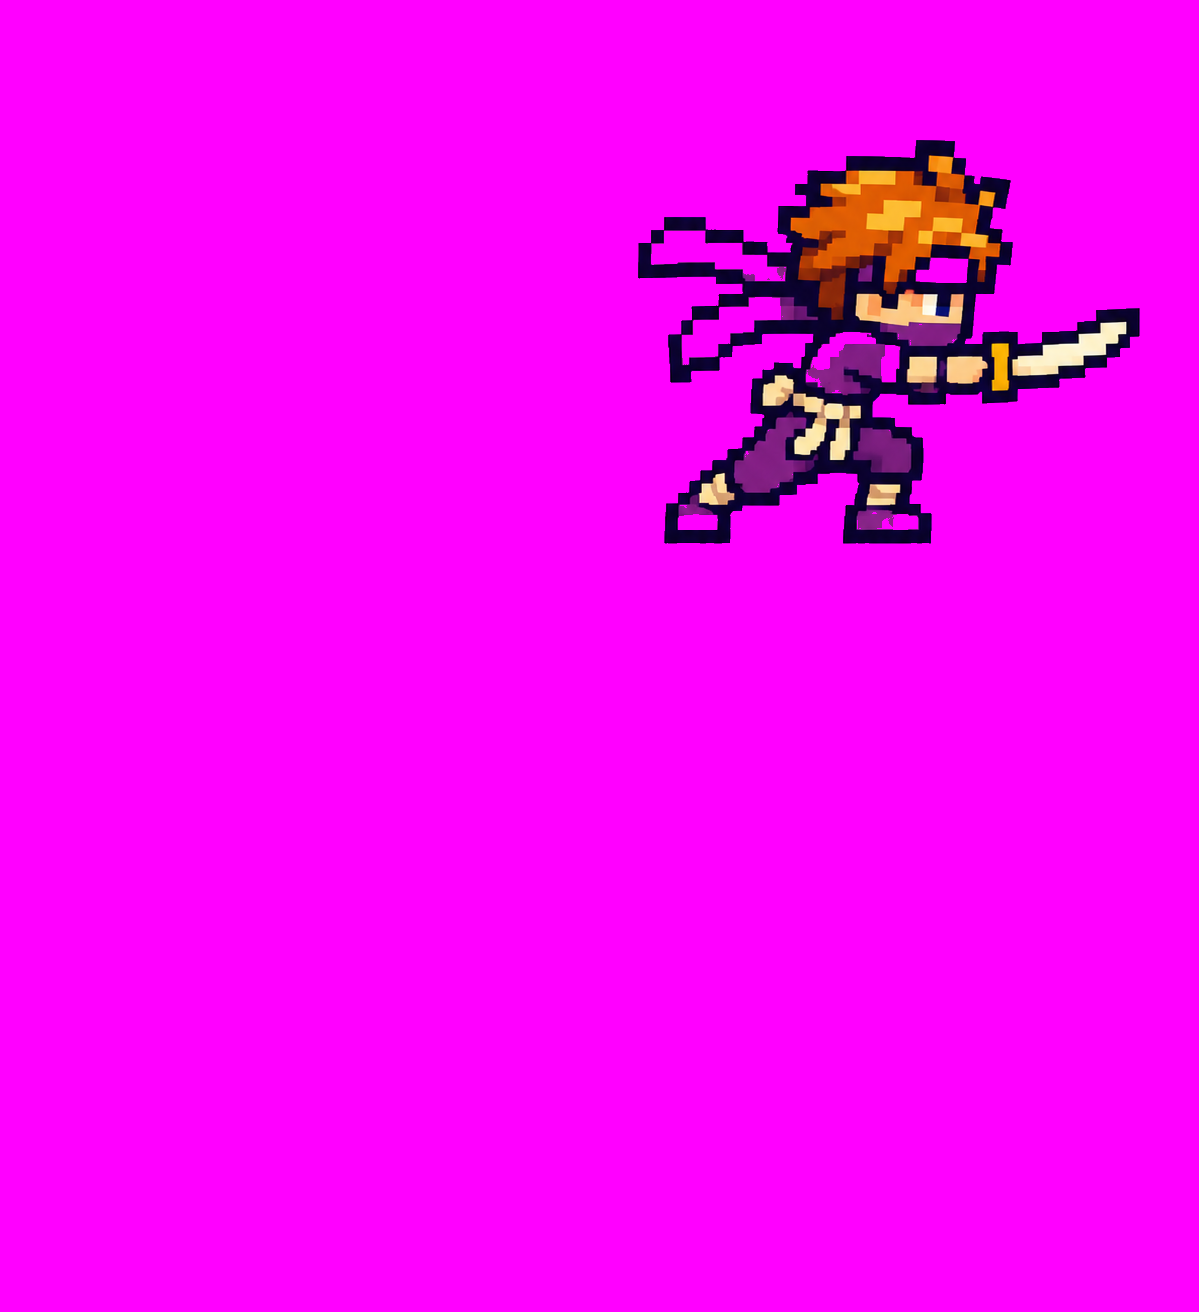
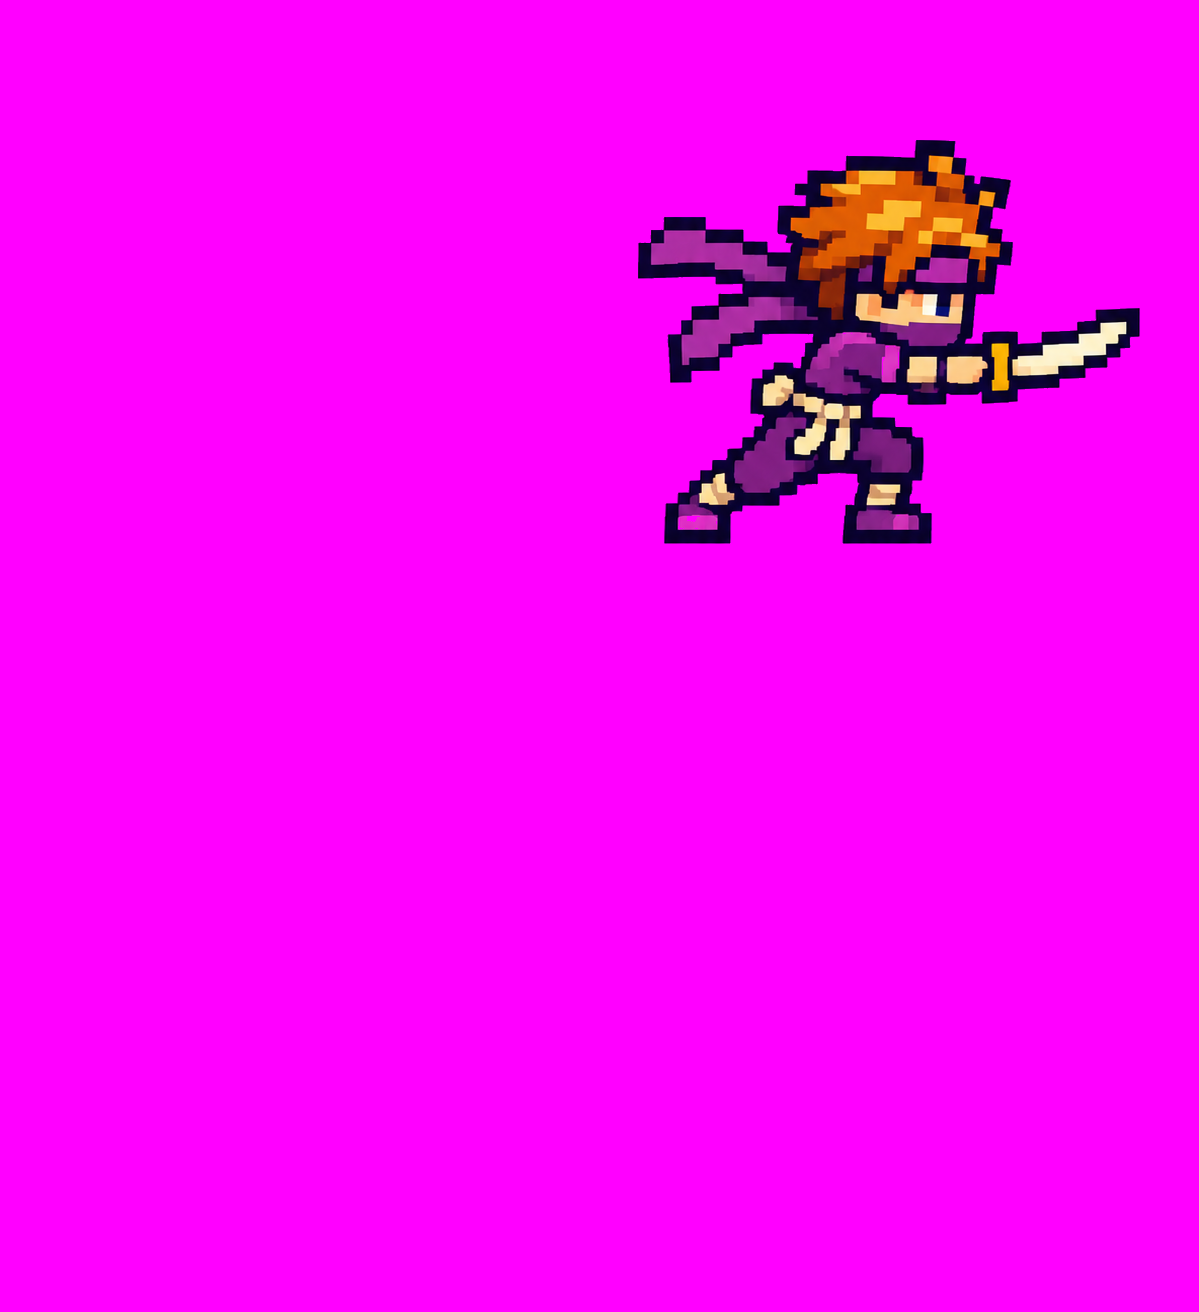
主人公: ranger被弾の弓・ninja縁の厳格抜き・帯の歩行ポーズ接続・マスター衣装(warrior/ranger)6枚

diff --git a/rpg/js/rpg-ui.js b/rpg/js/rpg-ui.js
@@ -137,7 +137,10 @@
       }
       else if (e.t === 'heal') steps.push({ d: 280, f: p => ({ heal: true }) });
       else if (e.t === 'enemy' && e.dmg > 0) steps.push({ d: 360, f: p => ({ enemyDx: p < .3 ? -p / .3 * 8 : p < .6 ? -8 : -(1 - (p - .6) / .4) * 8, heroFlash: p > .3 && p < .6, guard: e.reduced > 0 && p > .2 && p < .7 }) });
-      else if (e.t === 'explore') RPG.scene.walk++;
+      else if (e.t === 'explore') {   // 回答の合間に冒険帯で歩く：前の位置から6px進みながら歩行ポーズ（8歩目以降はその場歩き）
+        const adv = RPG.scene.walk < 8 ? 6 : 0; RPG.scene.walk++;
+        steps.push({ d: 420, f: p => ({ heroDx: -adv * (1 - p), heroPose: 'walk' }) });
+      }
     });
     if (reduceMotion() || !steps.length) { drawStrip(); return; }
     const t0 = performance.now(); let i = 0, start = t0, last = t0; cancelAnimationFrame(raf);

diff --git a/rpg/assets/tools/master_take.py b/rpg/assets/tools/master_take.py
@@ -1,0 +1,31 @@
+# python tools/master_take.py <master|alt> <職> [<職>...] : ChatGPTで作った 横1列3マスのシート(左=報酬待機 中=報酬勝利 右=帯用待機)を切り、
+# 通常衣装の待機と同じ高さに縮尺をそろえて chars/hero_<職>_<kind>.png / _<kind>_win.png / hero_<職>_strip_<kind>.png に出す。
+# シートは Downloads/rpg<kind>_<職>.png を既定とし、src/hero_<職>_<kind>_sheet/ へ移す。STRICT=1 で紫の服の職用(マゼンタ判定を厳しく)。
+import sys, os, shutil, subprocess
+import numpy as np
+from PIL import Image
+from scipy import ndimage as ndi
+A = os.path.abspath(os.path.join(os.path.dirname(__file__), '..')); D = os.path.expanduser('~/Downloads')
+kind = sys.argv[1]
+def mag(a):
+    r,g,b=[a[...,i].astype(int) for i in range(3)]
+    if os.environ.get('STRICT')=='1': return (r>200)&(b>200)&(g<80)&((r+b)//2-g>150)
+    return (r>140)&(b>140)&(g<120)&((r+b)//2-g>80)
+for j in sys.argv[2:]:
+    sid=f'hero_{j}_{kind}_sheet'; s=f'{A}/src/{sid}/{sid}.png'; f=f'{D}/rpg{kind}_{j}.png'
+    if os.path.exists(f): os.makedirs(os.path.dirname(s),exist_ok=True); shutil.move(f,s)
+    a=np.array(Image.open(s).convert('RGB')); H,W=a.shape[:2]; fg=~mag(a)
+    lab,n=ndi.label(ndi.binary_dilation(fg,iterations=10)); lab=lab*fg; cells={}
+    for k in range(1,n+1):
+        m=lab==k
+        if m.sum()<400: continue
+        ys,xs=np.nonzero(m); cells.setdefault(min(2,int(xs.mean()/(W/3))),[]).append(m)
+    print(j,kind,'cells',{k:len(v) for k,v in cells.items()})
+    def hgt(ms): m=np.any(ms,axis=0); ys=np.nonzero(m.any(1))[0]; return ys.max()-ys.min()+1
+    idle_h=Image.open(f'{A}/chars/hero_{j}.png').size[1]; strip_h=Image.open(f'{A}/chars/hero_{j}_strip.png').size[1]
+    sc=idle_h/hgt(cells[0]); sc2=strip_h/hgt(cells[2]); print('scale',sc,sc2)
+    for c,pid,scl in [(0,f'hero_{j}_{kind}',sc),(1,f'hero_{j}_{kind}_win',sc),(2,f'hero_{j}_strip_{kind}',sc2)]:
+        m=np.any(cells[c],axis=0); o=np.zeros_like(a)+np.array([255,0,255],np.uint8); o[m]=a[m]
+        os.makedirs(f'{A}/src/{pid}',exist_ok=True); Image.fromarray(o).save(f'{A}/src/{pid}/{pid}.png')
+        r=subprocess.run([sys.executable,f'{A}/tools/process.py','sprite',pid,f'src/{pid}/{pid}.png',repr(float(scl))],capture_output=True,text=True,cwd=A,env=dict(os.environ,**({'RESAMPLE':'box'} if c==2 else {})))
+        print(pid,r.stdout.strip()[-90:],r.stderr.strip()[:200])

diff --git a/rpg/assets/tools/process.py b/rpg/assets/tools/process.py
@@ -10,8 +10,10 @@ from PIL import Image
 ROOT = os.path.abspath(os.path.join(os.path.dirname(__file__), '..', '..', '..'))
 A = os.path.join(ROOT, 'rpg', 'assets')
 
+STRICT = os.environ.get('STRICT') == '1'   # 紫の服の職(ninja等)用: マゼンタ判定を厳しく(背景の純マゼンタだけ消す)
 def magenta_mask(a):
     r, g, b = a[..., 0].astype(int), a[..., 1].astype(int), a[..., 2].astype(int)
+    if STRICT: return (r > 200) & (b > 200) & (g < 80) & ((r + b) // 2 - g > 150)
     return (r > 140) & (b > 140) & (g < 120) & ((r + b) // 2 - g > 80)
 
 def rel(x): return x.replace(ROOT, '').replace(chr(92), '/').lstrip('/')
@@ -27,7 +29,7 @@ def sprite(id_, src, height, name):
         pad = np.pad(~alpha, 1, constant_values=True)
         edge = alpha & (pad[:-2, 1:-1] | pad[2:, 1:-1] | pad[1:-1, :-2] | pad[1:-1, 2:])
         r, g, b = a[..., 0].astype(int), a[..., 1].astype(int), a[..., 2].astype(int)
-        tint = ((r - g) > 40) & ((b - g) > 40) & (np.abs(r - b) < 90) & (b > 90)
+        tint = (((r - g) > 110) & ((b - g) > 110) & (np.abs(r - b) < 60) & (b > 150)) if STRICT else (((r - g) > 40) & ((b - g) > 40) & (np.abs(r - b) < 90) & (b > 90))
         kill = edge & tint
         if not kill.any(): break
         removed += int(kill.sum()); a[kill, 3] = 0
@@ -36,7 +38,9 @@ def sprite(id_, src, height, name):
     w, h = im.size
     if isinstance(height, float): height = max(1, round(h * height))   # 小数なら縮小率(出力px/元px)
     nw = max(1, round(w * height / h))
-    out = im.resize((nw, height), Image.NEAREST)
+    if os.environ.get('RESAMPLE') == 'box':   # 細かい飾りの多い絵を小さくするとき(帯用マスター衣装): 面積平均で縮め、透明度だけ2値に戻す
+        out = im.resize((nw, height), Image.BOX); oa = np.array(out); oa[..., 3] = np.where(oa[..., 3] > 127, 255, 0); out = Image.fromarray(oa)
+    else: out = im.resize((nw, height), Image.NEAREST)
     # 縮小後に残ったマゼンタ寄り画素の数(検品)
     o = np.array(out); op = o[..., 3] > 0
     r, g, b = o[..., 0].astype(int), o[..., 1].astype(int), o[..., 2].astype(int)

diff --git a/rpg/assets/tools/master_manifest.py b/rpg/assets/tools/master_manifest.py
@@ -1,0 +1,21 @@
+# python tools/master_manifest.py : マスター/追加衣装(hero_<職>_master, _master_win, hero_<職>_strip_master, *_alt…)を台帳に「正式」で登録。書く直前に読み直し、自分のIDだけ更新。
+import json, os, glob, re
+ROOT = os.path.abspath(os.path.join(os.path.dirname(__file__), '..', '..', '..'))
+mp = os.path.join(ROOT, 'rpg', 'ASSET_MANIFEST.json'); m = json.load(open(mp, encoding='utf-8')); by = {a['id']: a for a in m['assets']}
+n = 0
+for f in sorted(glob.glob(os.path.join(ROOT, 'rpg', 'assets', 'chars', 'hero_*_*.png'))):
+    id_ = os.path.basename(f)[:-4]
+    if not re.search(r'_(master|alt)(_win)?$', id_): continue
+    i = json.load(open(os.path.join(ROOT, 'rpg', 'assets', 'src', id_, 'inspect.json'), encoding='utf-8'))
+    a = by.get(id_) or {'id': id_}; new = id_ not in by
+    strip = '_strip_' in id_
+    a.update({'path': i['out'], 'src': '%dx%d' % tuple(i['src_size']), 'status': '正式', 'transparent': True, 'anchor': '足元中央',
+              'prompt': 'ChatGPTブラウザ版: 通常の待機・勝利・帯待機を参照に付け、豪華版(マスター/追加衣装)を横1列3マスのシートで生成(マゼンタ背景)→tools/master_take.py で切り出し・通常待機と同じ高さ。説明は PRODUCTION_LOG_browser.md',
+              'inspect': '検品済み(自動): ' + json.dumps({k: v for k, v in i.items() if k not in ('src', 'out')}, ensure_ascii=False) + '。目視: 担当が確認、最終は父',
+              'use': '主人公 %s（%s用）' % (id_, '帯' if strip else '報酬'), 'display': '28px(帯)' if strip else '96px(報酬)'})
+    if new: m['assets'].append(a)
+    n += 1
+c = {}
+for a in m['assets']: c[a['status']] = c.get(a['status'], 0) + 1
+m['counts'] = c
+json.dump(m, open(mp, 'w', encoding='utf-8'), ensure_ascii=False, indent=1); json.load(open(mp, encoding='utf-8')); print(n, c)

diff --git a/rpg/assets/tools/pose_manifest.py b/rpg/assets/tools/pose_manifest.py
@@ -12,7 +12,7 @@ for f in sorted(glob.glob(os.path.join(ROOT, 'rpg', 'assets', 'chars', 'hero_*_*
     if not os.path.exists(sd): continue
     i = json.load(open(sd, encoding='utf-8'))
     a = by.get(id_) or {'id': id_}; new = id_ not in by
-    if a.get('status') == '正式' and 'ChatGPTシート' not in a.get('prompt', '') and not new: continue   # 別担当(Codex)の正式行は触らない
+    if a.get('status') == '正式' and 'pose_sheet_take' not in a.get('prompt', '') and not new: continue   # 別担当(Codex)の正式行は触らない
     a.update({'path': i['out'], 'src': '%dx%d' % tuple(i['src_size']), 'status': '正式', 'transparent': True, 'anchor': '足元中央',
               'prompt': 'ChatGPTブラウザ版: 待機絵を参照に付けた複数ポーズのシート(マゼンタ背景)→tools/pose_sheet_take.py で切り出し・待機と同縮尺。説明は PRODUCTION_LOG_browser.md',
               'inspect': '検品済み(自動): ' + json.dumps({k: v for k, v in i.items() if k not in ('src', 'out')}, ensure_ascii=False) + '。目視: 担当が確認、最終は父',

diff --git a/rpg/assets/tools/pose_sheet_take.py b/rpg/assets/tools/pose_sheet_take.py
@@ -12,6 +12,7 @@ NC = 2 if STRIP else 3
 SUF = '_strip' if STRIP else ''
 def mag(a):
     r,g,b=[a[...,i].astype(int) for i in range(3)]
+    if os.environ.get('STRICT')=='1': return (r>200)&(b>200)&(g<80)&((r+b)//2-g>150)
     return (r>140)&(b>140)&(g<120)&((r+b)//2-g>80)
 for j in sys.argv[1:]:
     sid=f'hero_{j}{SUF}_sheet'; s=f'{A}/src/{sid}/{sid}.png'; f=f'{D}/rpgpose_{"s_" if STRIP else ""}{j}.png'

diff --git a/rpg/assets/PRODUCTION_LOG_browser.md b/rpg/assets/PRODUCTION_LOG_browser.md
@@ -57,3 +57,11 @@
 - 確認: `python tools/poses_shots.py` → shots/assets_poses_reward.png（待機/攻撃/構え/被弾/勝利）、assets_poses_strip.png（待機/攻撃/被弾/歩行）。実画面の drawHero で全職すべて別の絵が出る。回帰 95 pass / 0 fail、コンソールエラー0。
 - 気づき: ranger 報酬の被弾は弓が消えている（要目視）。ninja は紫の服でマゼンタ除去が少し荒い（magenta_left 数百px）。帯の歩行は画面側が walk を使っていない（rpg-ui.js は attack/hit のみ）ので素材のみ。
 - 残り: マスター衣装（12職x5ポーズ）、上級職の追加衣装（6x5）、顔4・髪6の差分は未着手（文脈長のため停止。同じ方法で、衣装違いを文章で指定し待機の絵を参照に付ければ作れる）。使用上限の表示は出なかった。タブは閉じた。
+
+## 主人公 手直し・マスター衣装 2026-11-18（電源断のため途中で停止）
+- 手直し済み: ranger 報酬の被弾を弓つきで作り直し(目視で弓あり)。ninja の4ポーズ報酬＋帯3ポーズは、マゼンタ判定を厳しくする `STRICT=1`（process.py / pose_sheet_take.py / master_take.py の環境変数）で既存シートから切り直し。服の穴が消えた。紫の服の職はこの指定を使う。
+- 歩行: rpg-ui.js の RPG.play で explore の出来事に歩行ポーズ(帯 walk)の420msの動きを追加（前の位置から6px進む。8歩目以降はその場歩き）。回答の合間に歩く場面は既にあったので使う方に決定。
+- マスター衣装: 方法=職ごとに新規チャット→通常の待機・勝利・帯待機(16倍等のドット拡大・マゼンタ背景)を3枚添付→横1列3マス(待機/勝利/帯待機)のシート1枚→ `python tools/master_take.py master <職>`（通常待機と同じ高さに縮尺。帯は RESAMPLE=box で面積平均）→ `python tools/master_manifest.py`。
+- 済み(6枚): warrior・ranger の master / master_win / strip_master。台帳「正式」。画面は未接続（drawHero は master を読まない）。帯のマスターは飾りが細かく少しぼやける。次は帯用の飾りを控えめにと指示して作り直すとよい。
+- 残り: マスター10職(mage priest thief magicknight paladin shadow sage ninja(STRICT) skyknight starseer)、上級職追加衣装6種(kind=alt)、顔4・髪6の差分（案: 画像の肌・髪を色分けして色替え。ポーズとの適合は未試作）、画面接続（Lv30で master 画像、外見画面の反映）、assets_master_*.png / assets_look_*.png の撮影。
+- 備考: 外見画面(rpg-screens.js hero)は画像でなく仮ドット絵で描いており、画像の待機/勝利は外見(肌・髪)を反映しない。接続時に要設計。使用上限の表示は出なかった。タブは閉じた。
